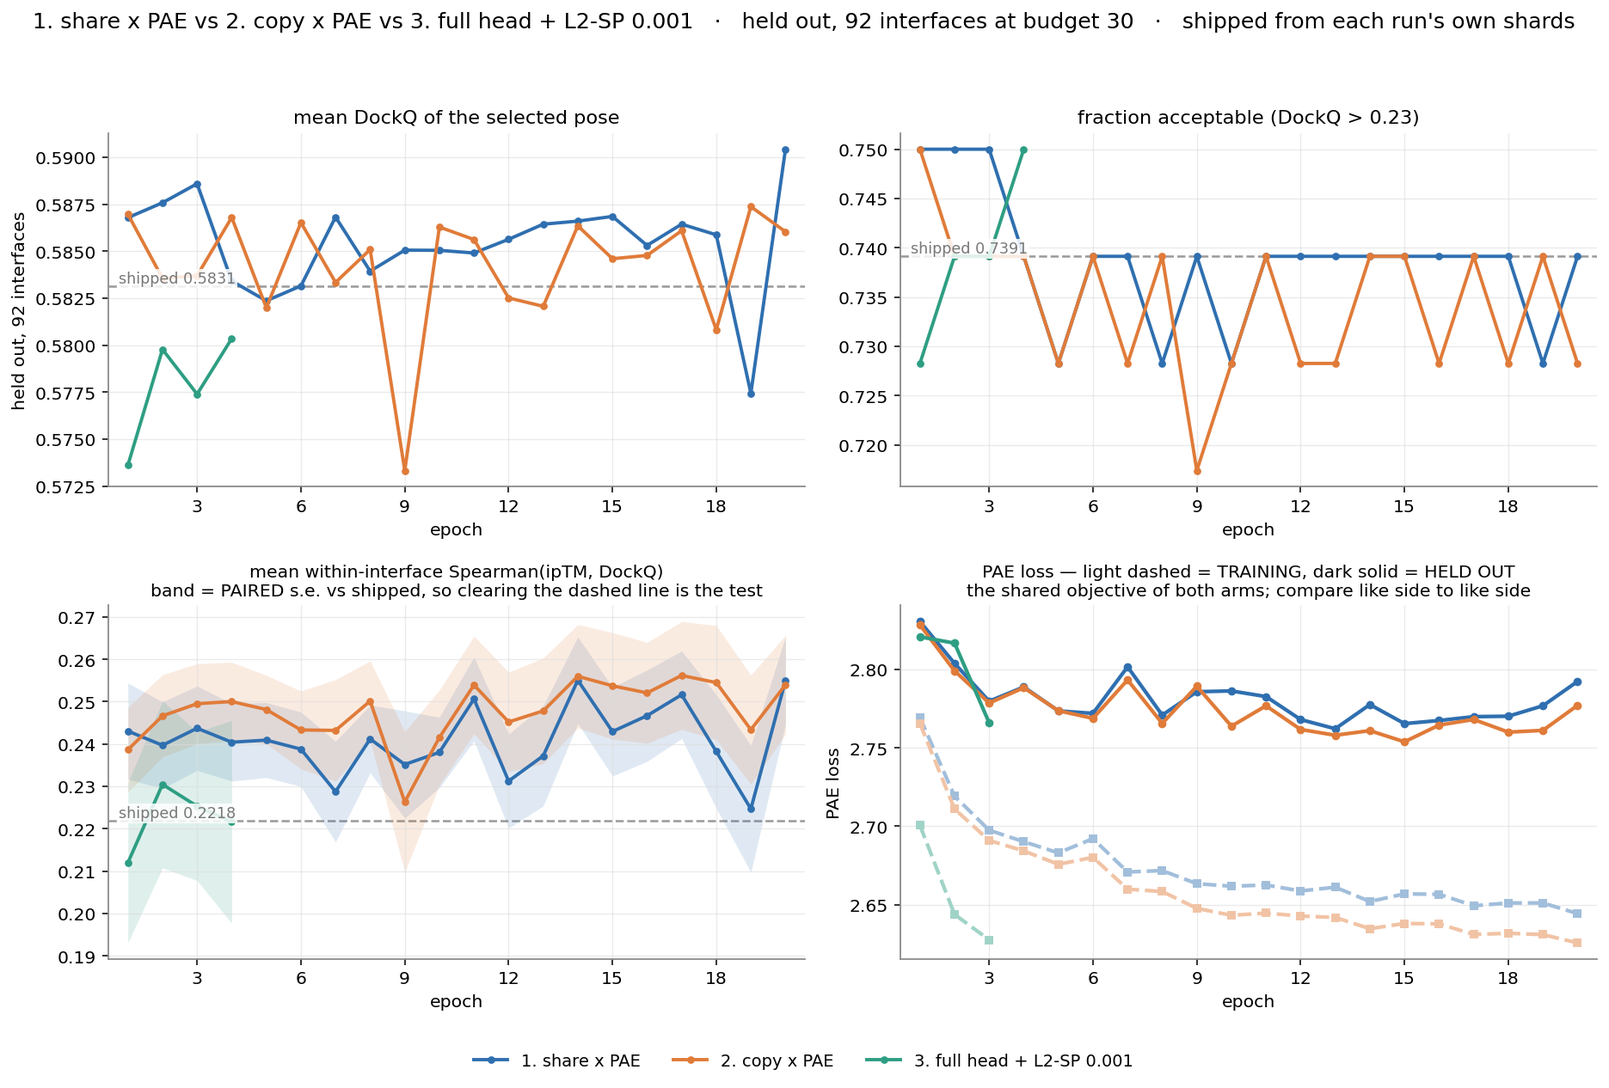
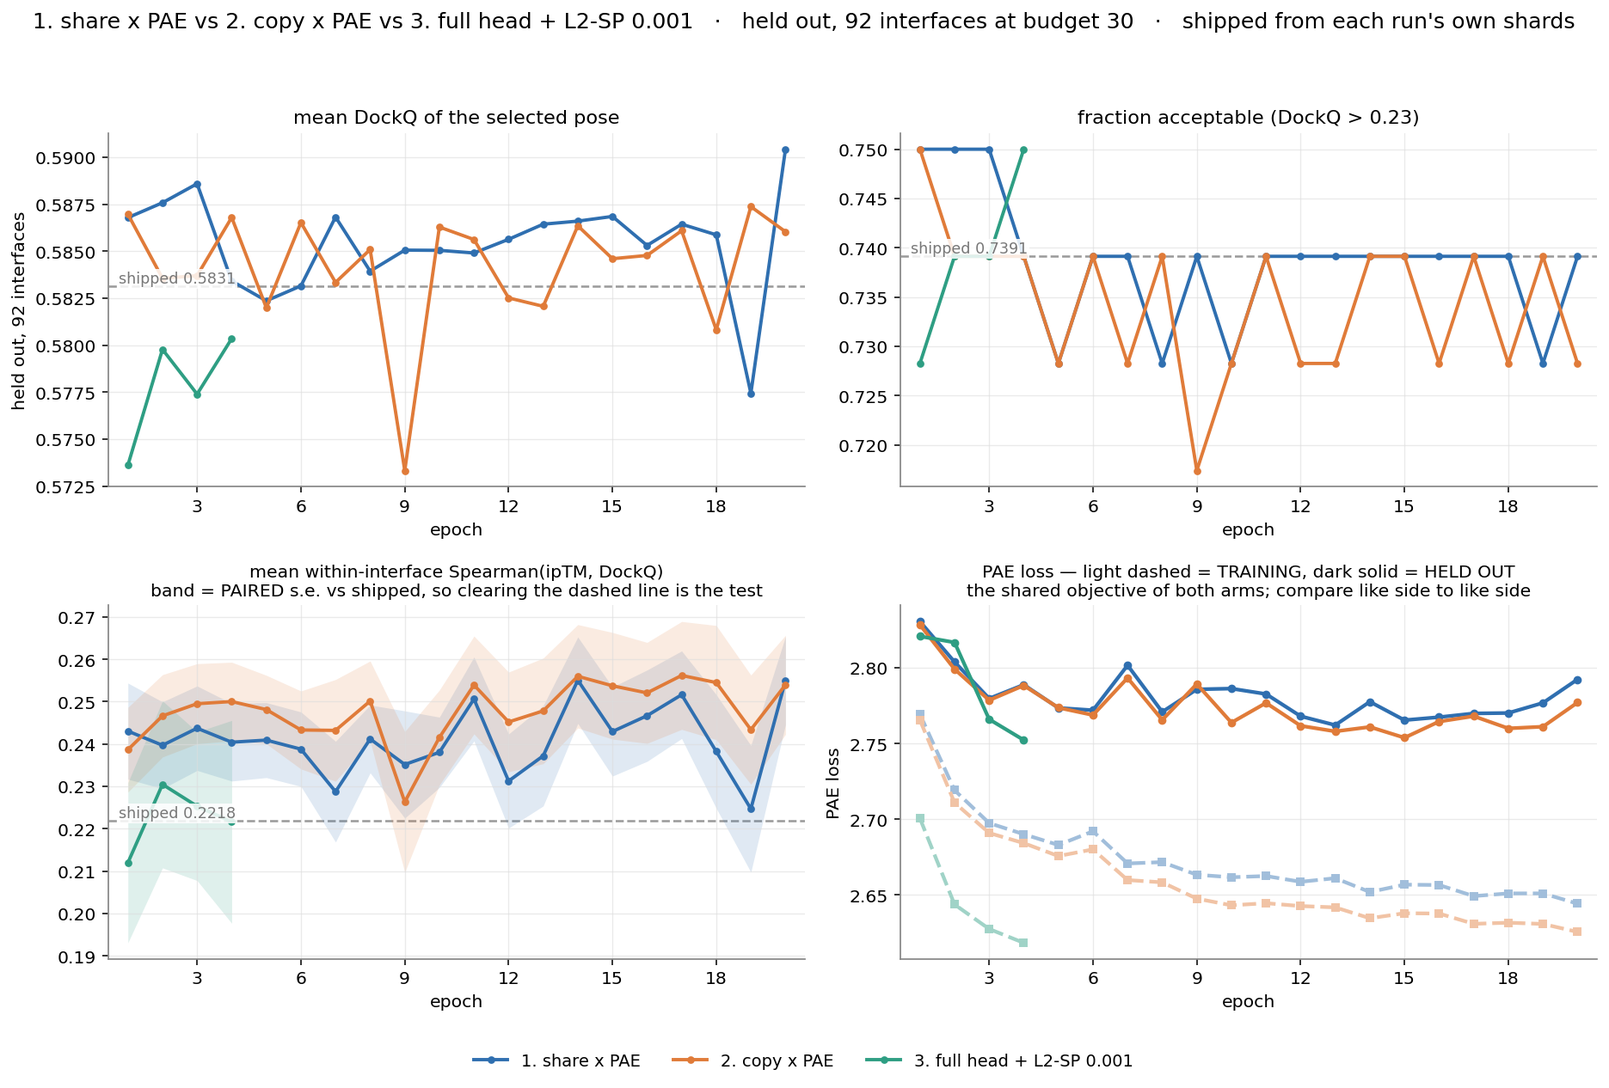
a transient shard failure no longer voids an epoch's held-out PAE; tv6hue ep4 recovered to 2.7523
THE FAILURE. tv6hue epoch 4 lost two of three held-out PAE shards inside torch._C._cuda_init()
-- "CUDA driver initialization failed" and "No CUDA GPUs are available" -- while shard 0 finished
normally in 2.1 min at 3.80 GB peak. Not OOM (that says "CUDA out of memory"), not compute-mode
exclusivity (all three cards report Default), no Xid, holders alive, ECC clean. First occurrence
in the project: no other run's log contains either string.

THE FIX, IN THE TRAINER. Failed shards are now RETRIED (--val-loss-shard-retries, default 2)
before the epoch's number is voided, and the children are staggered 2 s apart instead of created
at the same instant. Voiding a whole epoch over a transient that cost one child 40 seconds is a
bad trade: the pass reads a bundle already written to disk and the weights cannot move while it
runs, so a re-run measures exactly the same model as its siblings. Only the failed indices are
re-run. The stagger is a MITIGATION, NOT A DIAGNOSIS -- the root cause is not established, which
is why the retry does not depend on it. A previous attempt's shard.log is kept as .failed rather
than overwritten: it is the only evidence of the failure, and the pooling scans shard.log for the
SHARD COVERAGE line, so a stale log left in place would be read as the live one.

THE RECOVERY, FOR THE EPOCH ALREADY LOST. run_logging/recover_val_pae.py re-runs only the failed
shards of a past epoch against the same resume_ep<N>.pt and pools with every guard the live path
[…]

diff --git a/extra_training/run_logging/recover_val_pae.py b/extra_training/run_logging/recover_val_pae.py
@@ -1,0 +1,228 @@
+#!/usr/bin/env python
+"""Re-run the held-out PAE shards that FAILED for one epoch, then pool the epoch's number.
+
+WHY THIS EXISTS. phase_k_train voids an epoch's held-out point if ANY shard fails, which is the
+right call -- pooling the survivors would report a mean over a biased subset of the held-out set,
+a different population than every other epoch, and it would look entirely comparable. But the
+surviving shards' work is still on disk, and the bundle the failed ones were measuring
+(resume_ep<N>.pt) is too. So the point is recoverable by re-running ONLY the failed shards against
+the SAME bundle and pooling all three, which is what this does.
+
+tv6hue epoch 4 lost shards 1 and 2 to CUDA driver init failures ("CUDA driver initialization
+failed" and "No CUDA GPUs are available") while shard 0 completed normally in 2.1 min at 3.80 GB.
+
+IT REBUILDS THE PARENT'S OWN COMMAND from the run's args.json, mirroring heldout_pae()'s
+construction flag for flag. It does NOT invent a command: any flag the parent passes that this
+misses would measure a different model or a different population, and the number would look fine.
+That is why --verify-against exists and why it is on by default -- after a shard succeeds, its
+written args.json is compared field by field against a shard that the PARENT launched, and the
+only fields allowed to differ are the ones that identify the shard.
+
+POOLING REPEATS THE PARENT'S GUARDS rather than trusting the re-run: disjointness across shards,
+one coverage line per shard, agreement on the full population, every unit accounted for, and an
+exact pose count. A recovered number that cannot pass the checks the live path passes is not a
+recovered number.
+"""
+import argparse
+import csv
+import json
+import os
+import subprocess
+import sys
+
+ROOT = os.path.dirname(os.path.dirname(os.path.abspath(__file__)))
+TRAIN = os.path.join(ROOT, "phases", "phase_k_train.py")
+
+# Fields that legitimately differ between two shards of the same pass.
+SHARD_FIELDS = {"out", "manifest_shard", "resume_note"}
+
+
+def build_cmd(a, bundle, out, epoch):
+    """Mirror phase_k_train.heldout_pae()'s cmd, which is the only correct source for this."""
+    labels = a.get("val_loss_labels") or os.path.join(a["val_loss_fold"], "labels")
+    cmd = [sys.executable, "-I", TRAIN,
+           "--loss-only", "--resume", bundle, "--resume-allow-drift",
+           "--resume-note", (f"held-out PAE measurement of {os.path.basename(bundle)} at "
+                             f"epoch {epoch}; --loss-only reads the weights and writes no "
+                             f"checkpoint, so the bundle's schedule is not continued"),
+           "--fold", a["val_loss_fold"], "--labels", labels,
+           "--manifest-selection", a["val_loss_selection"],
+           "--alignment-preflight", a["val_loss_preflight"], "--minimal-items",
+           "--pae-scored-pairs", a["val_loss_pool"],
+           "--seeds", a["val_loss_seeds"],
+           "--crop-margin", ("0" if a.get("val_loss_uncropped") else str(a["crop_margin"])),
+           "--crop-contact", str(a["crop_contact"]),
+           "--crop-size", str(a["crop_size"]), "--accum", str(a["accum"])]
+    if a.get("val_loss_emit_iptm"):
+        cmd += ["--emit-iptm-rows", os.path.join(os.path.dirname(out), "iptm_rows.csv")]
+    if a.get("crop_all_poses") and not a.get("val_loss_uncropped"):
+        cmd.append("--crop-all-poses")
+    cmd += ["--nsample", str(a["nsample"]),
+            "--alpha-pae", str(a["alpha_pae"] if float(a["alpha_pae"]) > 0 else 1.0),
+            "--alpha-confidence", str(a["alpha_confidence"]), "--clip-norm", str(a["clip_norm"]),
+            "--blocks-per-ckpt", str(a["blocks_per_ckpt"]),
+            "--epochs", "1", "--save-every", "0", "--warmup-steps", "0",
+            "--shuffle", "structure", "--out", out]
+    for flag, key in (("--pae-only", "pae_only"), ("--drop-pde", "drop_pde"),
+                      ("--frame-direction", "frame_direction")):
+        if a.get(key):
+            cmd.append(flag)
+    if a.get("pose_perblock"):
+        cmd.append("--pose-perblock")
+        for flag, key in (("--pose-perblock-tied", "pose_perblock_tied"),
+                          ("--pose-perblock-share", "pose_perblock_share"),
+                          ("--pose-perblock-copy", "pose_perblock_copy")):
+            if a.get(key):
+                cmd.append(flag)
+    if a.get("val_loss_prep"):
+        p = a["val_loss_prep"]
+        cmd += ["--indices", os.path.join(p, "job_indices.csv"),
+                "--bio-dir", os.path.join(p, "job_bioassembly"),
+                "--mmcif-dir", os.path.join(p, "job_cifs")]
+    return cmd
+
+
+def child_env(card):
+    env = {k: v for k, v in os.environ.items()
+           if k not in ("WORLD_SIZE", "RANK", "LOCAL_RANK", "GROUP_RANK", "ROLE_RANK",
+                        "ROLE_NAME", "LOCAL_WORLD_SIZE", "ROLE_WORLD_SIZE", "MASTER_ADDR",
+                        "MASTER_PORT", "TORCH_NCCL_ASYNC_ERROR_HANDLING")
+           and not k.startswith("TORCHELASTIC_")}
+    env.update({"LAYERNORM_TYPE": "openfold", "WORLD_SIZE": "1", "RANK": "0", "LOCAL_RANK": "0",
+                "CUDA_VISIBLE_DEVICES": str(card)})
+    return env
+
+
+def pool(shard_dirs, nsh):
+    """The parent's pooling and ALL of its guards. Returns (mean, npose) or raises."""
+    vals, ids, cov = [], set(), {}
+    for i, d in sorted(shard_dirs.items()):
+        lg = os.path.join(d, "shard.log")
+        with open(lg) as fh:
+            for ln in fh:
+                if ln.startswith("SHARD COVERAGE "):
+                    cov[i] = dict(kv.split("=", 1) for kv in ln.split()[2:] if "=" in kv)
+        with open(os.path.join(d, "trajectory.csv")) as fh:
+            for row in csv.DictReader(fh):
+                if not row.get("pae_loss"):
+                    continue
+                k = (row.get("pdb"), row.get("unit"), row.get("pose"))
+                if k in ids:
+                    raise SystemExit(f"STOP: pose {k} appears in more than one shard; "
+                                     f"the shards are not disjoint.")
+                ids.add(k)
+                vals.append(float(row["pae_loss"]))
+    if len(cov) != nsh:
+        raise SystemExit(f"STOP: coverage lines from {len(cov)} of {nsh} shard(s).")
+    alls = {int(c["units_all"]) for c in cov.values()}
+    nsamp = {int(c["nsample"]) for c in cov.values()}
+    if len(alls) != 1 or len(nsamp) != 1:
+        raise SystemExit(f"STOP: shards disagree on the population (units_all={alls}, "
+                         f"nsample={nsamp}).")
+    exp_units, ns = alls.pop(), nsamp.pop()
+    mine = sum(int(c["units_mine"]) for c in cov.values())
+    if mine != exp_units:
+        raise SystemExit(f"STOP: shards cover {mine} of {exp_units} unit(s).")
+    exp = exp_units * ns
+    if len(vals) != exp or len(ids) != exp:
+        raise SystemExit(f"STOP: pooled {len(vals)} pose(s) ({len(ids)} unique) against {exp} "
+                         f"expected ({exp_units} x {ns}).")
+    return sum(vals) / len(vals), len(vals)
+
+
+def main():
+    ap = argparse.ArgumentParser()
+    ap.add_argument("rid")
+    ap.add_argument("epoch", type=int)
+    ap.add_argument("--cards", default="", help="comma list; default = the run's --eval-cards")
+    ap.add_argument("--verify-against", type=int, default=None,
+                    help="shard index the PARENT launched successfully, to compare args against; "
+                         "default = the lowest-numbered shard that already has an args.json")
+    ap.add_argument("--dry-run", action="store_true")
+    a = ap.parse_args()
+
+    run = os.path.join(ROOT, "training", "runs", a.rid)
+    args = json.load(open(os.path.join(run, "args.json")))
+    bundle = os.path.join(run, f"resume_ep{a.epoch}.pt")
+    if not os.path.exists(bundle):
+        raise SystemExit(f"STOP: no {bundle}; nothing to measure.")
+    cards = [c.strip() for c in (a.cards or args.get("eval_cards") or "").split(",") if c.strip()]
+    if len(cards) < 2:
+        raise SystemExit(f"STOP: need the run's multi-card shard layout, got {cards}.")
+    nsh = len(cards)
+    base = os.path.join(run, f"val_loss_ep{a.epoch}")
+
+    dirs = {i: os.path.join(base, f"shard{i}") for i in range(nsh)}
+    done = {i: d for i, d in dirs.items() if os.path.exists(os.path.join(d, "trajectory.csv"))}
+    todo = [i for i in range(nsh) if i not in done]
+    print(f"{a.rid} epoch {a.epoch}: {len(done)} shard(s) already complete {sorted(done)}, "
+          f"re-running {todo} on card(s) {[cards[i] for i in todo]}")
+    if not todo:
+        print("nothing to re-run")
+    ref_i = a.verify_against
+    if ref_i is None:
+        ref_i = next((i for i in sorted(done) if os.path.exists(
+            os.path.join(dirs[i], "args.json"))), None)
+
+    procs = []
+    for i in todo:
+        out = dirs[i]
+        os.makedirs(out, exist_ok=True)
+        # The failed attempt left a shard.log. Keep it -- it is the evidence of the failure --
+        # under a .failed name, so the coverage scan reads only the new one.
+        lg = os.path.join(out, "shard.log")
+        if os.path.exists(lg):
+            n = 0
+            while os.path.exists(f"{lg}.failed{n or ''}"):
+                n += 1
+            os.rename(lg, f"{lg}.failed{n or ''}")
+        cmd = build_cmd(args, bundle, out, a.epoch) + \
+            ["--manifest-shard", str(i), "--manifest-nshards", str(nsh)]
+        if a.dry_run:
+            print(f"\nshard {i} on card {cards[i]}:\n  " + " ".join(cmd))
+            continue
+        fh = open(lg, "w")
+        procs.append((i, out, lg, fh,
+                      subprocess.Popen(cmd, stdout=fh, stderr=subprocess.STDOUT, text=True,
+                                       env=child_env(cards[i]))))
+        print(f"  shard {i} -> card {cards[i]}, pid {procs[-1][4].pid}, log {lg}")
+    if a.dry_run:
+        return 0
+
+    bad = []
+    for i, out, lg, fh, p in procs:
+        p.wait()
+        fh.close()
+        if p.returncode != 0:
+            tail = open(lg).read().strip().splitlines()[-6:]
+            bad.append((i, p.returncode, tail))
+    for i, rc, tail in bad:
+        print(f"  shard {i} FAILED again (rc={rc}):\n    " + "\n    ".join(tail))
+    if bad:
+        raise SystemExit(f"STOP: {len(bad)} shard(s) failed again; no held-out point.")
+
+    # SAME MODEL, SAME POPULATION -- asserted, not assumed.
+    if ref_i is not None:
+        ref = json.load(open(os.path.join(dirs[ref_i], "args.json")))
+        for i, out, _lg, _fh, _p in procs:
+            got = json.load(open(os.path.join(out, "args.json")))
+            diff = {k for k in set(ref) | set(got)
+                    if ref.get(k) != got.get(k)} - SHARD_FIELDS
+            if diff:
+                raise SystemExit(
+                    f"STOP: re-run shard {i} was configured differently from parent-launched "
+                    f"shard {ref_i} in {sorted(diff)}:\n  " + "\n  ".join(
+                        f"{k}: parent {ref.get(k)!r} vs re-run {got.get(k)!r}"
+                        for k in sorted(diff)))
+        print(f"  args verified identical to parent-launched shard {ref_i} "
+              f"(ignoring {sorted(SHARD_FIELDS)})")
+    else:
+        print("  WARNING: no parent-launched shard with an args.json to verify against")
+
+    mean, npose = pool(dirs, nsh)
+    print(f"\nepoch {a.epoch} VALLOSS: pae {mean:.4f}  poses {npose}   [RECOVERED]")
+    return 0
+
+
+if __name__ == "__main__":
+    sys.exit(main())

diff --git a/extra_training/phases/phase_k_train.py b/extra_training/phases/phase_k_train.py
@@ -582,6 +582,13 @@ def main():
     ap.add_argument("--val-loss-card", default="",
                     help="card for the held-out pass. Empty shares the trainer's; it loads a second "
                          "464M-parameter model, so the free-memory floor below applies.")
+    ap.add_argument("--val-loss-shard-retries", type=int, default=2,
+                    help="how many times to re-run a FAILED held-out PAE shard before voiding "
+                         "the epoch's number. The shards read a bundle already on disk and the "
+                         "weights cannot move while they run, so a re-run measures exactly the "
+                         "same model as its siblings; 0 restores the old void-on-any-failure "
+                         "behaviour. tv6hue epoch 4 lost two of three shards to a transient "
+                         "CUDA context-creation failure and voided a point worth 2.1 min of work.")
     ap.add_argument("--val-loss-uncropped", action="store_true",
                     help="run the held-out PAE pass on the FULL structure instead of the training "
                          "crop. OFF BY DEFAULT and it must stay off mid-comparison. WHY ANYONE "
@@ -4120,14 +4127,22 @@ def main():
             # 64 KiB pipe buffer BLOCKS until the parent gets round to reading it -- serialising
             # the very passes this change exists to run in parallel. Files also keep the whole
             # diagnostic instead of the last four lines of a failure. Caught in review.
-            procs = []
             os.makedirs(os.path.join(a.out, f"val_loss_ep{epoch}"), exist_ok=True)
-            for _i, _c in enumerate(_cards):
+
+            def _spawn(_i):
                 _env = dict(env)
-                _env["CUDA_VISIBLE_DEVICES"] = _c
+                _env["CUDA_VISIBLE_DEVICES"] = _cards[_i]
                 _o = os.path.join(a.out, f"val_loss_ep{epoch}", f"shard{_i}")
                 os.makedirs(_o, exist_ok=True)
                 _lg = os.path.join(_o, "shard.log")
+                # A PREVIOUS ATTEMPT'S LOG IS EVIDENCE, NOT CLUTTER -- it is the only record of
+                # why the shard failed, and the pooling below scans shard.log for the SHARD
+                # COVERAGE line, so a failed log left in place would be read as the live one.
+                if os.path.exists(_lg):
+                    _n = 0
+                    while os.path.exists(f"{_lg}.failed{_n or ''}"):
+                        _n += 1
+                    os.rename(_lg, f"{_lg}.failed{_n or ''}")
                 _cmd = [x for x in cmd]
                 _cmd[_cmd.index("--out") + 1] = _o
                 # AND THE EMIT PATH, for the same reason --out is rewritten: the emitter opens it
@@ -4137,22 +4152,64 @@ def main():
                         os.path.join(_o, "iptm_rows.csv")
                 _cmd += ["--manifest-shard", str(_i), "--manifest-nshards", str(_nsh)]
                 _fh = open(_lg, "w")
-                procs.append((_i, _o, _lg, _fh,
-                              subprocess.Popen(_cmd, stdout=_fh, stderr=subprocess.STDOUT,
-                                               text=True, env=_env)))
-            _bad = []
-            for _i, _o, _lg, _fh, _p in procs:
-                _p.wait()
-                try:
-                    _fh.close()
-                except Exception:                 # noqa: BLE001
-                    pass
-                if _p.returncode != 0:
+                return (_i, _o, _lg, _fh,
+                        subprocess.Popen(_cmd, stdout=_fh, stderr=subprocess.STDOUT,
+                                         text=True, env=_env))
+
+            def _await(_ps):
+                _failed = []
+                for _i, _o, _lg, _fh, _p in _ps:
+                    _p.wait()
                     try:
-                        _tail = open(_lg).read().strip().splitlines()[-6:]
-                    except OSError:
-                        _tail = [f"(no readable log at {_lg})"]
-                    _bad.append((_i, _tail))
+                        _fh.close()
+                    except Exception:             # noqa: BLE001
+                        pass
+                    if _p.returncode != 0:
+                        try:
+                            _tail = open(_lg).read().strip().splitlines()[-6:]
+                        except OSError:
+                            _tail = [f"(no readable log at {_lg})"]
+                        _failed.append((_i, _tail))
+                return _failed
+
+            # STAGGERED, NOT SIMULTANEOUS. On tv6hue epoch 4 two of three children died inside
+            # torch._C._cuda_init() -- "CUDA driver initialization failed" and "No CUDA GPUs are
+            # available" -- while the third completed normally in 2.1 min at 3.80 GB. That is a
+            # driver-level context-creation failure, not OOM (which says "CUDA out of memory")
+            # and not compute-mode exclusivity (all three cards report Default). The one thing
+            # the three children do that nothing else here does is create CUDA contexts at the
+            # same instant, against cards whose training ranks are still holding ~67 GB each, so
+            # they are spaced out. THIS IS A MITIGATION, NOT A DIAGNOSIS: the root cause is not
+            # established, which is exactly why the retry below exists and does not rely on it.
+            _handles = {}
+            for _i in range(_nsh):
+                if _i:
+                    time.sleep(2.0)
+                _handles[_i] = _spawn(_i)
+            _bad = _await(list(_handles.values()))
+
+            # RETRY THE FAILED SHARDS BEFORE VOIDING THE EPOCH. Losing the whole epoch's held-out
+            # point to a transient that cost one child 40 seconds is a bad trade: the measurement
+            # is 2.1 min of a 30 min cycle, it reads a bundle already written to disk, and the
+            # weights cannot move while it runs, so re-running a failed shard measures exactly the
+            # same model as its siblings. Before this, ANY shard failure voided the number, and
+            # tv6hue epoch 4 is the first time in the project that actually happened.
+            # ONLY THE FAILED INDICES ARE RE-RUN. Re-running a shard that already succeeded would
+            # throw away good work and give the pooling a second chance to see a duplicate.
+            for _try in range(1, int(getattr(a, "val_loss_shard_retries", 2) or 0) + 1):
+                if not _bad:
+                    break
+                _idx = [_i for _i, _ in _bad]
+                print(f"  held-out shard(s) {_idx} of epoch {epoch} failed; retry {_try} of "
+                      f"{int(getattr(a, 'val_loss_shard_retries', 2) or 0)}", flush=True)
+                for _i, _tail in _bad:
+                    print(f"    shard {_i} said:\n      " + "\n      ".join(_tail), flush=True)
+                time.sleep(15.0 * _try)
+                for _i in _idx:
+                    _handles[_i] = _spawn(_i)
+                    time.sleep(2.0)
+                _bad = _await([_handles[_i] for _i in _idx])
+            procs = [_handles[_i] for _i in range(_nsh)]
             if _bad:
                 # ANY shard failing voids the epoch's number. Pooling the survivors would report a
                 # mean over a BIASED subset of the held-out set -- a different population than
@@ -4162,8 +4219,9 @@ def main():
                     print(f"  WARNING: held-out shard {_i} of epoch {epoch} failed:\n    "
                           + "\n    ".join(_tail), flush=True)
                 print(f"  WARNING: epoch {epoch} has no held-out point; {len(_bad)} of {_nsh} "
-                      f"shard(s) failed and a partial pool would be a different population.",
-                      flush=True)
+                      f"shard(s) failed after "
+                      f"{int(getattr(a, 'val_loss_shard_retries', 2) or 0)} retry/retries and a "
+                      f"partial pool would be a different population.", flush=True)
                 return None
             # POOLED AS A PLAIN MEAN OVER POSES. Each shard owns whole structures, every pose
             # appears in exactly one shard exactly once, so concatenating the rows and taking one

diff --git a/extra_training/EXPERIMENTS.md b/extra_training/EXPERIMENTS.md
@@ -36,7 +36,7 @@ Oracle ceiling: DockQ 0.6926, frac 0.8587 → **headroom 0.1096**.
 
 ![arms overlay](figures/arms_overlay.png)
 
-*Regenerated 2026-10-26 9:17 PM EDT. Every number below comes from each run's own train_eval shards and rank_rho cache; shipped is recomputed from the same rows via `stored_iptm`.*
+*Regenerated 2026-10-26 9:33 PM EDT. Every number below comes from each run's own train_eval shards and rank_rho cache; shipped is recomputed from the same rows via `stored_iptm`.*
 
 Shipped on `valfull` (92 interfaces, budget 30): DockQ **0.5830**, frac **0.7391**, rho **0.2218**.
 
@@ -44,11 +44,11 @@ Shipped on `valfull` (92 interfaces, budget 30): DockQ **0.5830**, frac **0.7391
 |---|---|---|---|---|---|---|---|---|
 | 1 | `ip8ga4` | 1..20 | 0.5904 | 0.7391 | 0.2550 | +0.0074 ± 0.0040 | 2.6443 | 2.7923 |
 | 2 | `dntxmn` | 1..20 | 0.5860 | 0.7283 | 0.2540 | +0.0030 ± 0.0032 | 2.6256 | 2.7770 |
-| 3 | `tv6hue` | 1..4 | 0.5803 | 0.7500 | 0.2216 | -0.0027 ± 0.0053 | 2.6276 | 2.7660 |
+| 3 | `tv6hue` | 1..4 | 0.5803 | 0.7500 | 0.2216 | -0.0027 ± 0.0053 | 2.6184 | 2.7523 |
 
 - **1. share x PAE** (`ip8ga4`, 20 epochs): paired ΔDockQ mean **+0.0023**; rho 0.2550 (best 0.2551) vs shipped 0.2218; train PAE 2.7693 → 2.6443; val PAE 2.8305 → 2.7923, min 2.7621 at epoch 13.
 - **2. copy x PAE** (`dntxmn`, 20 epochs): paired ΔDockQ mean **+0.0011**; rho 0.2540 (best 0.2562) vs shipped 0.2218; train PAE 2.7654 → 2.6256; val PAE 2.8283 → 2.7770, min 2.7538 at epoch 15.
-- **3. full head + L2-SP 0.001** (`tv6hue`, 4 epochs): paired ΔDockQ mean **-0.0053**; rho 0.2216 (best 0.2305) vs shipped 0.2218; train PAE 2.7005 → 2.6276; val PAE 2.8207 → 2.7660, min 2.7660 at epoch 3.
+- **3. full head + L2-SP 0.001** (`tv6hue`, 4 epochs): paired ΔDockQ mean **-0.0053**; rho 0.2216 (best 0.2305) vs shipped 0.2218; train PAE 2.7005 → 2.6184; val PAE 2.8207 → 2.7523, min 2.7523 at epoch 4.
 
 <!-- AUTO:END -->
 
